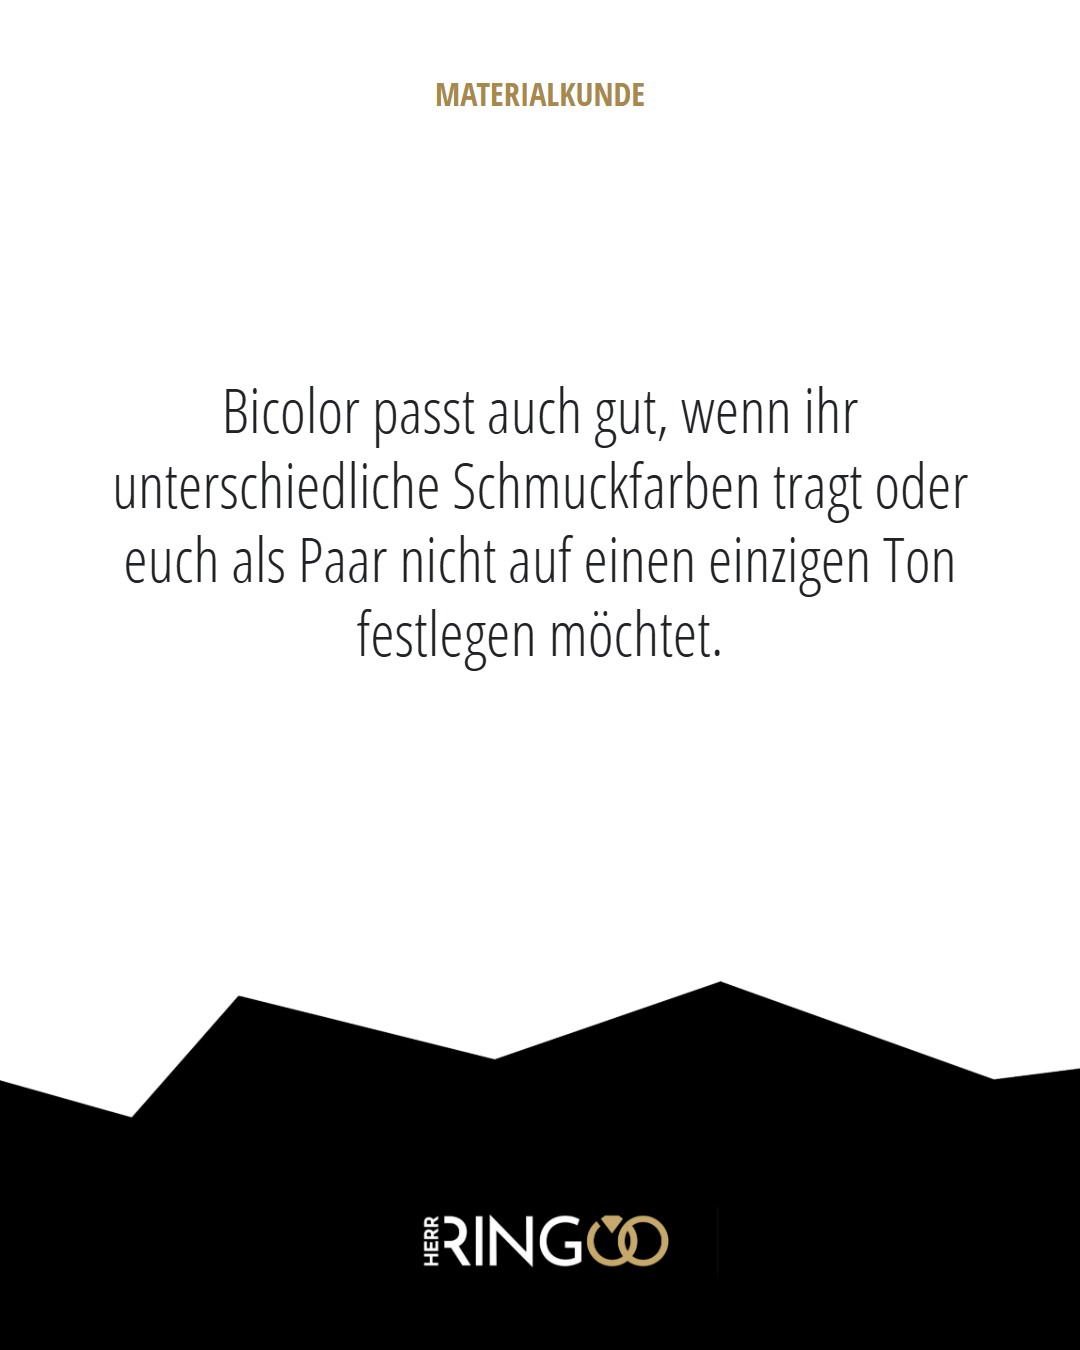
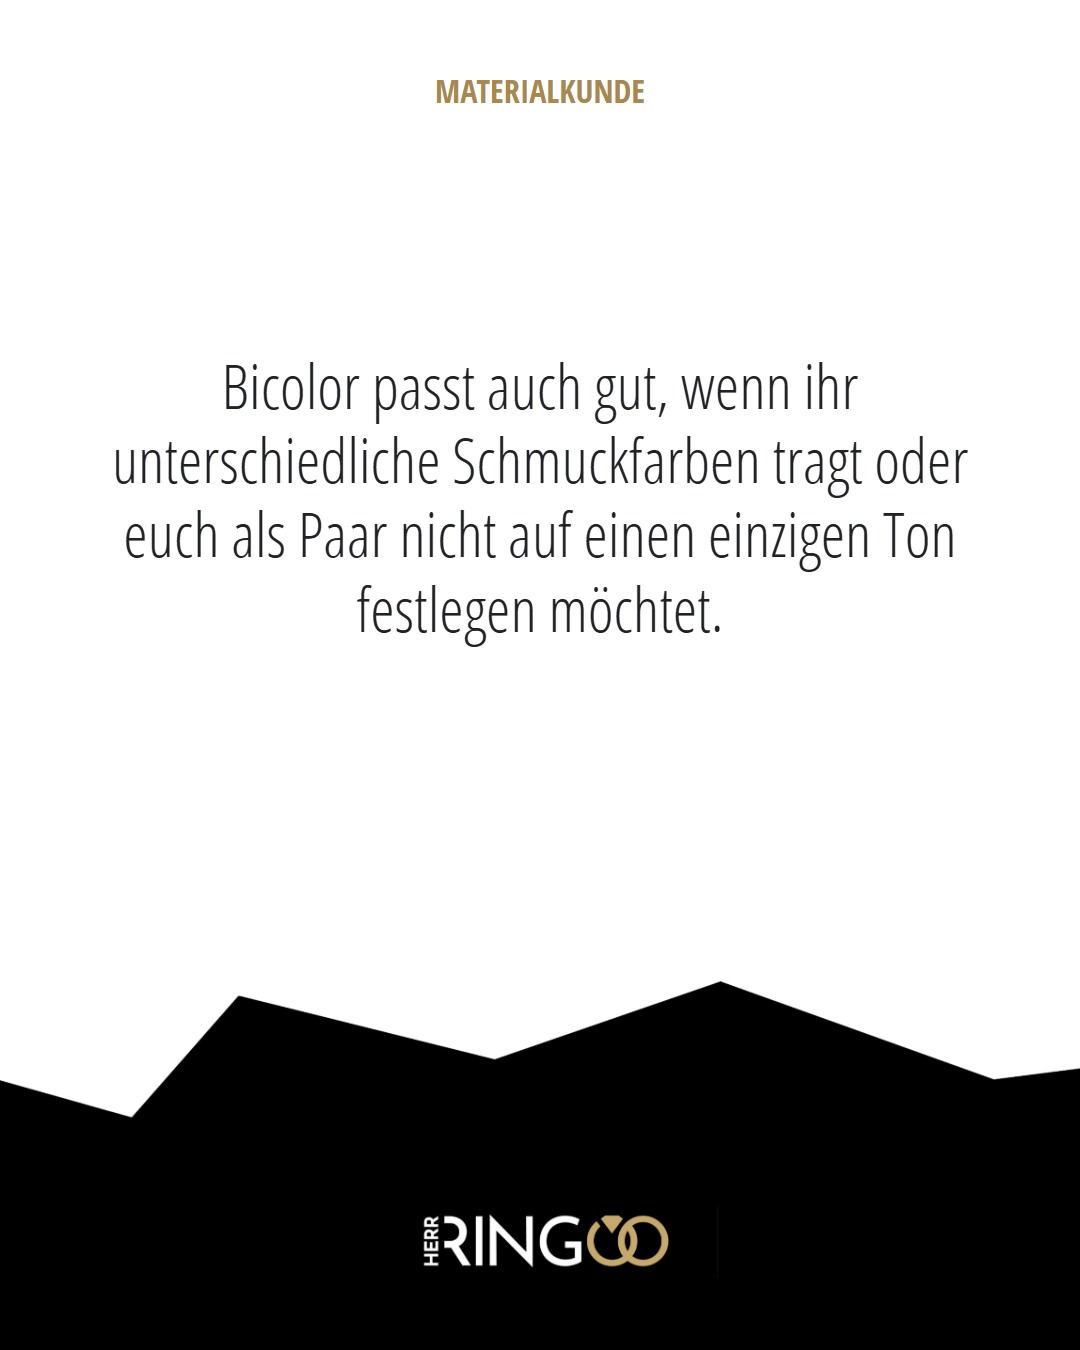
Slides: unified 8px spacing, optical compensation, overflow check
- Spacing tokens on an 8px grid; text boxes trimmed to cap height so
  margins equal visible gaps (32px around "oder", 48px around the diamond)
- slides.js auto-compensates comma/descender above and accent/umlaut below
  "oder"; marks slides whose content leaves the safe area
- render-slides.ps1 checks for overflow first and aborts without export
- Content area ends 48px earlier, content sits 24px higher
- Re-rendered all 15 slides, styleguide updated

Changed region(s): [[0.0917, 0.28, 0.8861, 0.4978], [0.3972, 0.0622, 0.6111, 0.0933]]

diff --git a/planungs-webseite/slides/slides.css b/planungs-webseite/slides/slides.css
@@ -16,6 +16,12 @@
   --slide-h: 1350px;
   --safe-bottom: 860px;
   --scale: 0.5;
+
+  /* Abstands-Raster: Vielfache von 8 px. Abstände sind immer SICHTBARE Abstände
+     (Schriftboxen werden auf Versalhöhe beschnitten, siehe text-box unten). */
+  --space-2: 16px;  --space-3: 24px;  --space-4: 32px;  --space-6: 48px;
+  --space-7: 56px;  --space-10: 80px; --space-19: 152px;
+  --dia-size: 20px;
 }
 
 * { box-sizing: border-box; }
@@ -54,34 +60,44 @@ body { margin: 0; background: #2a2b2f; color: #e5e6e9; font-family: var(--font-b
 }
 .slide p { margin: 0; }
 
-/* Hintergründe + sicherer Textbereich: endet ~90 px über dem höchsten Punkt des Schwarz */
-.bg1 { background-image: url('../medien/bg/bg-white-font-black/1.png'); --safe-bottom: 822px; }
-.bg2 { background-image: url('../medien/bg/bg-white-font-black/2.png'); --safe-bottom: 874px; }
-.bg3 { background-image: url('../medien/bg/bg-white-font-black/3.png'); --safe-bottom: 890px; }
-.bg4 { background-image: url('../medien/bg/bg-white-font-black/4.png'); --safe-bottom: 871px; }
-.bg5 { background-image: url('../medien/bg/bg-white-font-black/5.png'); --safe-bottom: 859px; }
-.bg6 { background-image: url('../medien/bg/bg-white-font-black/6.png'); --safe-bottom: 857px; }
-.bg7 { background-image: url('../medien/bg/bg-white-font-black/7.png'); --safe-bottom: 892px; }
-.bg8 { background-image: url('../medien/bg/bg-white-font-black/8.png'); --safe-bottom: 881px; }
+/* Hintergründe + sicherer Textbereich: endet 138 px über dem höchsten Punkt des Schwarz */
+.bg1 { background-image: url('../medien/bg/bg-white-font-black/1.png'); --safe-bottom: 774px; }
+.bg2 { background-image: url('../medien/bg/bg-white-font-black/2.png'); --safe-bottom: 826px; }
+.bg3 { background-image: url('../medien/bg/bg-white-font-black/3.png'); --safe-bottom: 842px; }
+.bg4 { background-image: url('../medien/bg/bg-white-font-black/4.png'); --safe-bottom: 823px; }
+.bg5 { background-image: url('../medien/bg/bg-white-font-black/5.png'); --safe-bottom: 811px; }
+.bg6 { background-image: url('../medien/bg/bg-white-font-black/6.png'); --safe-bottom: 809px; }
+.bg7 { background-image: url('../medien/bg/bg-white-font-black/7.png'); --safe-bottom: 844px; }
+.bg8 { background-image: url('../medien/bg/bg-white-font-black/8.png'); --safe-bottom: 833px; }
 
 .content {
   position: absolute; left: 0; right: 0; top: 0; height: var(--safe-bottom);
-  padding: 150px 80px 0;
+  padding: var(--space-19) var(--space-10) 0;
   display: flex; flex-direction: column; justify-content: center; align-items: center; text-align: center;
 }
 .show-safe .content { outline: 3px dashed rgba(255, 0, 80, .6); outline-offset: -3px; }
 
 /* Kategorie oben */
 .kicker {
-  position: absolute; top: 72px; left: 0; right: 0; text-align: center;
-  font-weight: 700; text-transform: uppercase; font-size: 32px; color: var(--gold-dark);
+  position: absolute; top: var(--space-10); left: 0; right: 0; text-align: center;
+  font-weight: 700; text-transform: uppercase; font-size: 32px; line-height: 1; color: var(--gold-dark);
+  text-box: trim-both cap alphabetic;
 }
-/* Trenner */
-.slide .dia { color: var(--gold); font-size: 30px; line-height: 1; margin: 30px 0; }
+/* Trenner: Raute als Fläche, damit sichtbare Größe = Box-Größe */
+.slide .dia {
+  width: var(--dia-size); height: var(--dia-size); flex: none;
+  background: var(--gold); clip-path: polygon(50% 0, 100% 50%, 50% 100%, 0 50%);
+  font-size: 0; margin: var(--space-6) 0;
+}
+/* Alle Textblöcke auf Versalhöhe/Grundlinie beschneiden -> Margin = sichtbarer Abstand */
+.p-xl, .p-oder, .p-big, .p-title, .p-text, .p-sub { text-box: trim-both cap alphabetic; }
 
 /* Cover-Titel, gestapelt (z. B. PLATIN / oder / WEISSGOLD?) */
 .p-xl { font-weight: 700; text-transform: uppercase; font-size: 124px; line-height: .95; color: var(--gray-950); }
-.slide .p-oder { font-family: var(--font-heading); font-weight: 600; text-transform: uppercase; font-size: 54px; color: var(--gold-dark); margin: 16px 0 8px; }
+.slide .p-oder { font-family: var(--font-heading); font-weight: 600; text-transform: uppercase; font-size: 54px; color: var(--gold-dark); margin: var(--space-4) 0; line-height: 1; }
+/* Optischer Ausgleich: Komma in der Zeile darüber (+16) bzw. Akzent in der Zeile darunter (+24) */
+.slide .p-oder.after-comma  { margin-top: calc(var(--space-4) + var(--space-2)); }
+.slide .p-oder.before-accent { margin-bottom: calc(var(--space-4) + var(--space-3)); }
 /* Große Aussage in Versalien */
 .p-big { font-weight: 700; text-transform: uppercase; font-size: 112px; line-height: 1; color: var(--gray-950); }
 /* Thema-Titel (Josefin Sans) */
@@ -94,3 +110,6 @@ body { margin: 0; background: #2a2b2f; color: #e5e6e9; font-family: var(--font-b
 
 .g { color: var(--gold-dark); }
 .nw { white-space: nowrap; }
+
+/* Prüfung: Inhalt ragt aus dem sicheren Bereich (setzt slides.js) */
+.slide[data-overflow="1"] .content { outline: 6px solid #e0003c; outline-offset: -6px; }

diff --git a/planungs-webseite/slides/slides.js b/planungs-webseite/slides/slides.js
@@ -1,7 +1,43 @@
-// Vorschau-Steuerung + Render-Modus für den JPG-Export.
-// ?slide=N  -> zeigt nur Folie N in Originalgröße (1080 × 1350), ohne Toolbar.
+// Vorschau-Steuerung, automatischer optischer Ausgleich, Überlauf-Prüfung und Render-Modus.
+//   ?slide=N  -> zeigt nur Folie N in Originalgröße (1080 × 1350), ohne Toolbar (JPG-Export)
+//   ?check=1  -> schreibt das Prüfergebnis in <body data-check="ok|overflow:..."> (für render-slides.ps1)
 (function () {
   const params = new URLSearchParams(location.search);
+
+  // 1) Optischer Ausgleich um "oder": Komma/Unterlänge in der Zeile darüber, Akzent/Umlaut in der
+  //    Zeile darunter ragen über Versalhöhe bzw. Grundlinie hinaus -> Abstand entsprechend vergrößern.
+  //    (Texte stehen in Versalien, daher zählen nur Zeichen, die auch in Versalien überstehen.)
+  const DESCENDER = /[,;Q]/;
+  const ACCENT = /[ÄÖÜÉÈÊÁÀÂÓÒÔÚÙÛÍÌÎ]/;
+  document.querySelectorAll('.p-oder').forEach(el => {
+    const prev = el.previousElementSibling, next = el.nextElementSibling;
+    if (prev && DESCENDER.test(prev.textContent.toUpperCase())) el.classList.add('after-comma');
+    if (next && ACCENT.test(next.textContent.toUpperCase())) el.classList.add('before-accent');
+  });
+
+  // 2) Überlauf-Prüfung: Inhalt muss vollständig im sicheren Bereich liegen.
+  function check() {
+    const problems = [];
+    document.querySelectorAll('.slide').forEach((slide, i) => {
+      const content = slide.querySelector('.content');
+      // Kinder-Positionen sind relativ zu .content (position: absolute = offsetParent)
+      const top = parseFloat(getComputedStyle(content).paddingTop);
+      const bottom = content.clientHeight;
+      let minY = Infinity, maxY = -Infinity;
+      [...content.children].forEach(c => {
+        minY = Math.min(minY, c.offsetTop);
+        maxY = Math.max(maxY, c.offsetTop + c.offsetHeight);
+      });
+      const over = minY < top - 1 || maxY > bottom + 1 || content.scrollHeight > content.clientHeight + 1;
+      slide.dataset.overflow = over ? '1' : '0';
+      if (over) problems.push(i + 1);
+    });
+    document.body.dataset.check = problems.length ? 'overflow:' + problems.join(',') : 'ok';
+    if (problems.length) console.warn('Folie(n) ragen aus dem sicheren Bereich:', problems.join(', '));
+  }
+  (document.fonts ? document.fonts.ready : Promise.resolve()).then(check);
+
+  // 3) Render-Modus
   const n = parseInt(params.get('slide'), 10);
   if (n > 0) {
     document.documentElement.classList.add('render');
@@ -9,6 +45,8 @@
     if (frames[n - 1]) frames[n - 1].classList.add('active');
     return;
   }
+
+  // 4) Vorschau-Steuerung
   const scale = document.getElementById('scale');
   const safe = document.getElementById('safe');
   if (scale) scale.addEventListener('change', e => document.documentElement.style.setProperty('--scale', e.target.value));

diff --git a/planungs-webseite/slides/26-08-platin-weissgold.html b/planungs-webseite/slides/26-08-platin-weissgold.html
@@ -31,7 +31,7 @@
       <p class="p-xl">Platin</p>
       <p class="p-oder">oder</p>
       <p class="p-xl g">Weißgold?</p>
-      <p class="dia">◆</p>
+      <p class="dia" aria-hidden="true">◆</p>
       <p class="p-text">Zwei helle Materialien, die sich deutlich unterschiedlich anfühlen.</p>
     </div>
   </div></div><figcaption>Folie 1 (bg 1)</figcaption></figure>
@@ -40,7 +40,7 @@
     <p class="kicker">Materialkunde</p>
     <div class="content">
       <p class="p-big">Auf Fotos wirken sie oft ähnlich.</p>
-      <p class="dia">◆</p>
+      <p class="dia" aria-hidden="true">◆</p>
       <p class="p-sub">Am Finger merkt man den Unterschied <span class="g">schneller.</span></p>
     </div>
   </div></div><figcaption>Folie 2 (bg 2)</figcaption></figure>
@@ -49,7 +49,7 @@
     <p class="kicker">Materialkunde</p>
     <div class="content">
       <p class="p-title">Weißgold</p>
-      <p class="dia">◆</p>
+      <p class="dia" aria-hidden="true">◆</p>
       <p class="p-text">Eine Goldlegierung mit hellen Zusatzmetallen. Es ist leichter als Platin und kann je nach Rezeptur und Oberfläche kühlweiß oder leicht warmgrau wirken.</p>
     </div>
   </div></div><figcaption>Folie 3 (bg 3)</figcaption></figure>
@@ -58,7 +58,7 @@
     <p class="kicker">Materialkunde</p>
     <div class="content">
       <p class="p-title">Platin</p>
-      <p class="dia">◆</p>
+      <p class="dia" aria-hidden="true">◆</p>
       <p class="p-text">Von Natur aus hell, sehr dicht und spürbar schwerer. Mit der Zeit entwickelt die Oberfläche feine Tragespuren und einen weicheren Schimmer. Für alle, die ein Schmuckstück gern fühlen.</p>
     </div>
   </div></div><figcaption>Folie 4 (bg 4)</figcaption></figure>
@@ -67,7 +67,7 @@
     <p class="kicker">Unser Tipp</p>
     <div class="content">
       <p class="p-big nw">Fühlen statt raten</p>
-      <p class="dia">◆</p>
+      <p class="dia" aria-hidden="true">◆</p>
       <p class="p-text small">Welches sich richtiger anfühlt, verrät kein Text und kein Foto. Gewicht, Ringbreite und Tragegefühl spielen ebenso mit. Deshalb könnt ihr beide Materialien bei der Beratung direkt anprobieren.</p>
     </div>
   </div></div><figcaption>Folie 5 (bg 5)</figcaption></figure>

diff --git a/planungs-webseite/slides/26-08-goldfarben.html b/planungs-webseite/slides/26-08-goldfarben.html
@@ -31,7 +31,7 @@
       <p class="p-xl">Gelb, Weiß</p>
       <p class="p-oder">oder</p>
       <p class="p-xl g">Rosé</p>
-      <p class="dia">◆</p>
+      <p class="dia" aria-hidden="true">◆</p>
       <p class="p-text">Woher kommt die Farbe des Goldes?</p>
     </div>
   </div></div><figcaption>Folie 1 (bg 6)</figcaption></figure>
@@ -47,7 +47,7 @@
     <p class="kicker">Materialkunde</p>
     <div class="content">
       <p class="p-title">Gelbgold</p>
-      <p class="dia">◆</p>
+      <p class="dia" aria-hidden="true">◆</p>
       <p class="p-text">Silber und Kupfer bringen das Feingold in einen warmen, klassischen Ton. Die genaue Nuance unterscheidet sich je nach Rezeptur.</p>
     </div>
   </div></div><figcaption>Folie 3 (bg 8)</figcaption></figure>
@@ -56,7 +56,7 @@
     <p class="kicker">Materialkunde</p>
     <div class="content">
       <p class="p-title">Roségold</p>
-      <p class="dia">◆</p>
+      <p class="dia" aria-hidden="true">◆</p>
       <p class="p-text">Ein höherer Kupferanteil macht die Farbe wärmer und rötlicher. Manche Legierungen wirken nur zart rosé, andere deutlich kräftiger.</p>
     </div>
   </div></div><figcaption>Folie 4 (bg 1)</figcaption></figure>
@@ -65,7 +65,7 @@
     <p class="kicker">Materialkunde</p>
     <div class="content">
       <p class="p-title">Weißgold</p>
-      <p class="dia">◆</p>
+      <p class="dia" aria-hidden="true">◆</p>
       <p class="p-text">Helle Metalle wie Palladium nehmen dem Gold seinen gelben Ton. Das Ergebnis reicht von kühlem Weiß bis zu einem dezenten Grauton.</p>
     </div>
   </div></div><figcaption>Folie 5 (bg 2)</figcaption></figure>

diff --git a/planungs-webseite/slides/26-08-bicolor.html b/planungs-webseite/slides/26-08-bicolor.html
@@ -29,7 +29,7 @@
     <p class="kicker">Materialkunde</p>
     <div class="content">
       <p class="p-big">Zwei Farben<br><span class="g">in einem Ring</span></p>
-      <p class="dia">◆</p>
+      <p class="dia" aria-hidden="true">◆</p>
       <p class="p-text">So funktioniert Bicolor.</p>
     </div>
   </div></div><figcaption>Folie 1 (bg 3)</figcaption></figure>

diff --git a/planungs-webseite/slides/STYLEGUIDE-SLIDES.md b/planungs-webseite/slides/STYLEGUIDE-SLIDES.md
@@ -31,23 +31,26 @@ Elemente. Keine Web-Bausteine wie Buttons, Pills, Trennlinien oder Navigationsle
 
 ### Sicherer Textbereich je Hintergrund
 
-Der Textbereich reicht von 150 px (unter der Kategorie) bis ca. **90 px über den höchsten Punkt
+Der Textbereich reicht von 152 px (unter der Kategorie) bis **138 px über den höchsten Punkt
 der Silhouette**. Der Inhalt wird innerhalb dieses Bereichs vertikal zentriert. Dadurch sind die
 Abstände nach oben und unten optisch ausgeglichen.
 
 | Hintergrund | Schwarz beginnt bei | Textbereich endet bei (`--safe-bottom`) |
 |---|---|---|
-| 1 | 912 px | 822 px |
-| 2 | 964 px | 874 px |
-| 3 | 980 px | 890 px |
-| 4 | 961 px | 871 px |
-| 5 | 949 px | 859 px |
-| 6 | 947 px | 857 px |
-| 7 | 982 px | 892 px |
-| 8 | 971 px | 881 px |
+| 1 | 912 px | 774 px |
+| 2 | 964 px | 826 px |
+| 3 | 980 px | 842 px |
+| 4 | 961 px | 823 px |
+| 5 | 949 px | 811 px |
+| 6 | 947 px | 809 px |
+| 7 | 982 px | 844 px |
+| 8 | 971 px | 833 px |
 
 In der HTML-Vorschau zeigt „Sicheren Textbereich anzeigen“ diesen Bereich als gestrichelten
-Rahmen.
+Rahmen. Ragt Inhalt aus diesem Bereich (z. B. weil ein Text zu lang ist), wird die Folie in der
+Vorschau **rot umrandet**, und `render-slides.ps1` bricht ab, ohne JPGs zu erzeugen. Dann den Text
+nicht kürzen, sondern eine passende Textgröße wählen (z. B. `.p-text.small`) oder einen
+Kürzungs-Vorschlag zur Freigabe machen.
 
 ## 3. Typografie
 
@@ -55,17 +58,45 @@ Kein `letter-spacing`. Versalien über `text-transform: uppercase`. Alles **zent
 
 | Rolle | Klasse | Schrift | Größe | Farbe |
 |---|---|---|---|---|
-| Kategorie oben (fix bei 72 px) | `.kicker` | Open Sans Condensed 700, Versalien | 32 px | Gold dunkel |
+| Kategorie oben (fix, s. Abstände) | `.kicker` | Open Sans Condensed 700, Versalien | 32 px | Gold dunkel |
 | Cover-Titel, gestapelt | `.p-xl` | Open Sans Condensed 700, Versalien | 124 px | Schwarz bzw. Gold |
 | Verbindungswort im Cover („oder“) | `.p-oder` | Josefin Sans 600, Versalien | 54 px | Gold dunkel |
 | Große Aussage | `.p-big` | Open Sans Condensed 700, Versalien | 112 px | Schwarz |
 | Thema-Titel (z. B. „Weißgold“) | `.p-title` | Josefin Sans 600, Versalien | 116 px | Schwarz |
 | Fließtext unter Titel | `.p-text` | Open Sans Condensed 300 | 52 px (lang: 48 px, `.small`) | Fast-Schwarz |
 | Reine Text-Folie / Unterzeile | `.p-sub` | Open Sans Condensed 300 | 62 px | Fast-Schwarz |
-| Trenner | `.dia` | Zeichen ◆ | 30 px | Gold |
+| Trenner | `.dia` | Raute (Fläche) | 20 × 20 px | Gold |
 | Hervorhebung | `.g` | – | – | Gold dunkel |
 
-## 4. Farben
+## 4. Abstände
+
+**8er-Raster:** Alle Abstände sind Vielfache von 8 px und als Tokens in `slides.css` definiert
+(`--space-2` = 16 px, `--space-4` = 32 px, `--space-6` = 48 px, `--space-10` = 80 px,
+`--space-19` = 152 px). Neue Einzelwerte werden nicht eingeführt.
+
+**Abstände sind sichtbare Abstände.** Alle Textblöcke werden per
+`text-box: trim-both cap alphabetic` auf Versalhöhe und Grundlinie beschnitten. Ein Margin von
+32 px ist damit auch optisch 32 px zwischen den Buchstaben und keine leere Schriftbox. Die
+Raute ist eine Fläche (20 × 20 px), ihre Box entspricht ihrer sichtbaren Größe.
+
+| Abstand | Token | Wert |
+|---|---|---|
+| Kategorie: Oberkante Versalien | `--space-10` | 80 px vom oberen Rand |
+| Textbereich: Innenabstand oben / seitlich | `--space-19` / `--space-10` | 152 px / 80 px |
+| Cover-Titel ↔ „oder“ ↔ Cover-Titel | `--space-4` | 32 px |
+| Titel/Aussage ↔ Raute ↔ Text | `--space-6` | 48 px |
+
+**Optischer Ausgleich bei „oder“:** Komma, Akzente oder Unterlängen ragen über die
+Versalhöhe bzw. Grundlinie hinaus und würden den Abstand optisch verkleinern. Das gleicht `slides.js` **automatisch** aus, man muss nichts von Hand setzen.
+Intern werden dafür zwei Klassen am „oder“ gesetzt:
+
+- `.after-comma`: Die Zeile darüber hat ein Komma oder eine Unterlänge (z. B. „GELB, WEISS“) → +16 px oben
+- `.before-accent`: Die Zeile darunter hat einen Akzent (z. B. „ROSÉ“) → +24 px unten
+
+Gemessen am gerenderten Bild: rund 30 px sichtbar um „oder“ und rund 48 px um die Raute, bei
+allen Folien höchstens ±3 px Abweichung durch die Schriftform.
+
+## 5. Farben
 
 | Token | Hex | Verwendung |
 |---|---|---|
@@ -76,7 +107,7 @@ Kein `letter-spacing`. Versalien über `text-transform: uppercase`. Alles **zent
 
 Gold ist Akzent, nie Fläche.
 
-## 5. Folientypen
+## 6. Folientypen
 
 1. **Cover:** Titel (gestapelt mit „oder“ oder als große Aussage, ein Teil in Gold) → ◆ →
    Unterzeile.
@@ -85,7 +116,7 @@ Gold ist Akzent, nie Fläche.
 4. **Reine Text-Folie:** nur Fließtext in groß (`.p-sub`).
 5. **Tipp-Folie:** Kategorie „Unser Tipp“ + freigegebene Überschrift → ◆ → Fließtext.
 
-## 6. Arbeitsablauf
+## 7. Arbeitsablauf
 
 1. HTML-Datei pro Post in `planungs-webseite/slides/` anlegen (Dateiname = Post-Slug, z. B.
    `26-08-bicolor.html`), bestehende Datei als Vorlage kopieren, Text wortgleich einsetzen.
